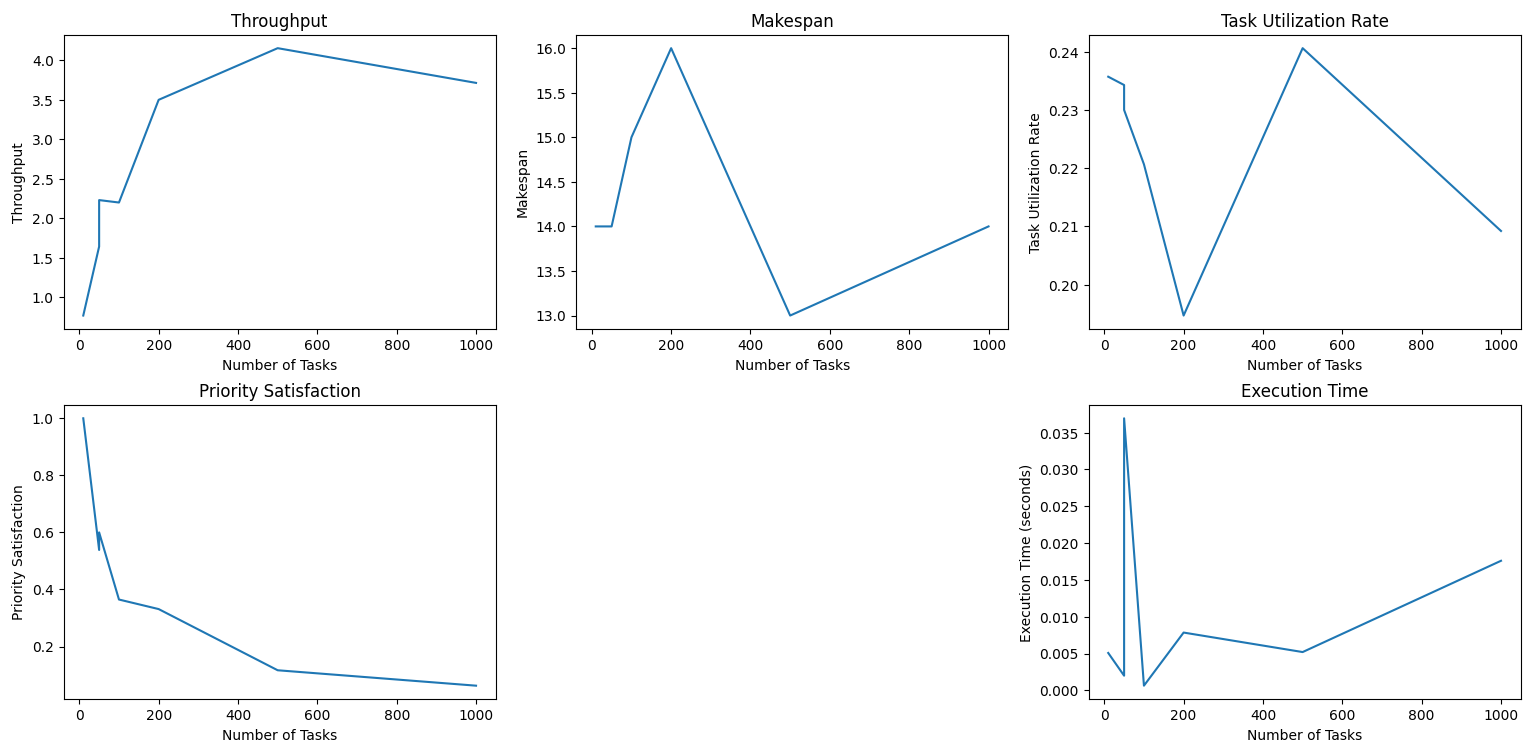
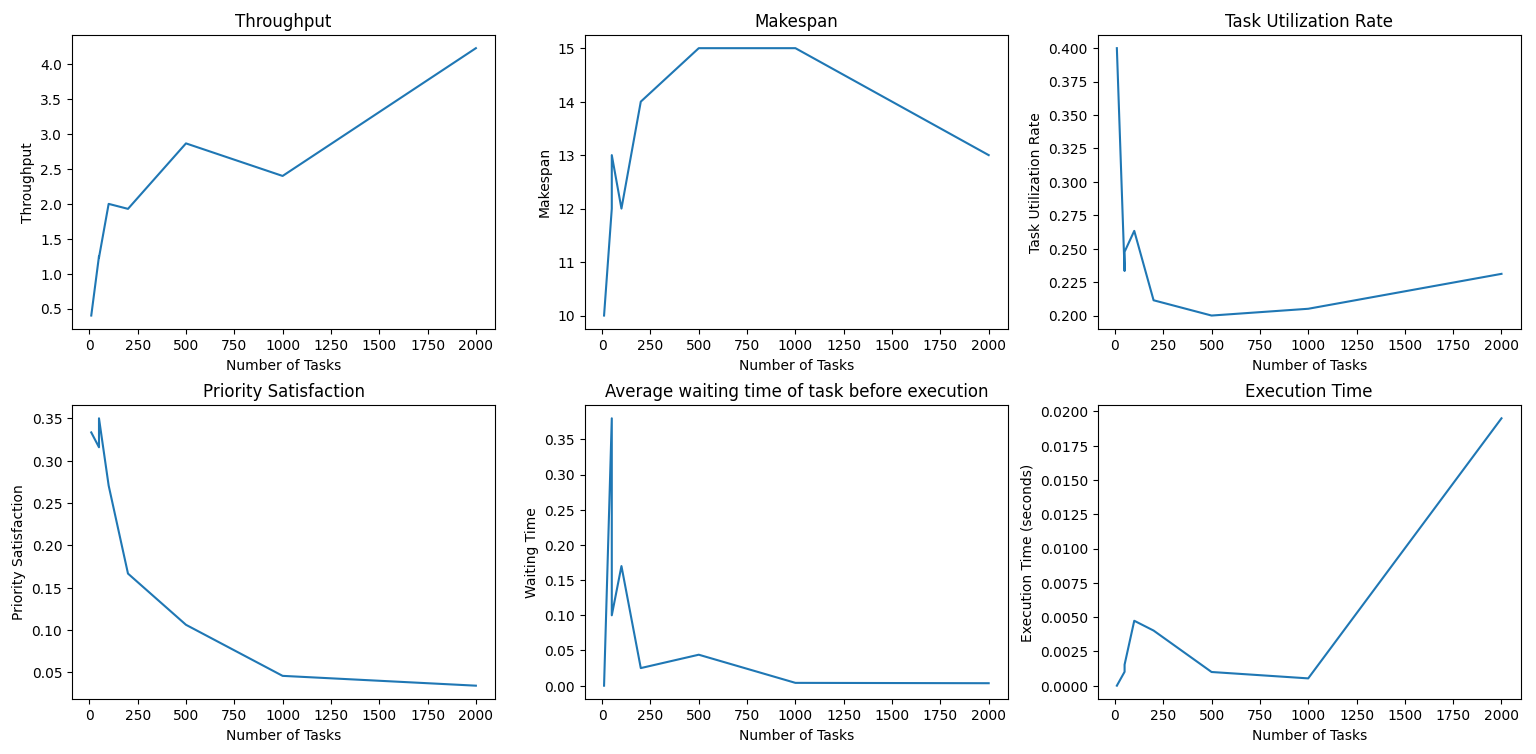
add metrics

diff --git a/Metrics.py b/Metrics.py
@@ -113,6 +113,21 @@ def calculate_resource_utilization(schedule, tasks, resource_limits):
     # print(f"DEBUG1: {utilization}")
     return utilization
 
+def calculate_average_wait_time(tasks, schedule):
+    wait_times = {task.task_id: 0 for task in tasks}  # Initialize wait times for each task
+
+    for task_id, start_time, end_time in schedule:
+        task = next((t for t in tasks if t.task_id == task_id), None)
+        if task:
+            # Calculate wait time for each task
+            wait_time = max(0, start_time - task.min_start_time)
+            wait_times[task_id] += wait_time
+
+    # Calculate average wait time
+    total_wait_time = sum(wait_times.values())
+    average_wait_time = total_wait_time / len(tasks) if tasks else 0
+    return average_wait_time
+
 def measure_metrics(schedule, tasks, resource_limits):
     """
     Measures the various metrics for the given schedule, tasks, and resource limits.
@@ -130,6 +145,7 @@ def measure_metrics(schedule, tasks, resource_limits):
     task_utilization_rate = calculate_task_utilization_rate(schedule, tasks)
     priority_satisfaction = calculate_priority_satisfaction(schedule, tasks)
     resource_utilization = calculate_resource_utilization(schedule, tasks, resource_limits)
+    task_avg_wait_time = calculate_average_wait_time(tasks, schedule)
     # print(f"DEBUG2: {resource_utilization}")
-    return throughput, makespan, task_utilization_rate, priority_satisfaction, resource_utilization
+    return throughput, makespan, task_utilization_rate, priority_satisfaction, resource_utilization, task_avg_wait_time
 

diff --git a/experiments.py b/experiments.py
@@ -50,7 +50,8 @@ settings2 = {# experiments with number of tasks and max dependencies
     "medium2": (100, 3),
     "complex1": (200, 3),
     "complex2": (500, 5),
-    "complex3": (1000, 5)
+    "complex3": (1000, 5),
+    "complex4": (2000, 10)
 }
 
 # Run the experiment for Greedy approach
@@ -67,12 +68,12 @@ for experiment_name, (num_tasks, max_dependencies) in settings2.items():
     visualize_tasks(tasks, schedule)
     
     # Measure metrics
-    throughput, makespan, task_utilization_rate, priority_satisfaction, resource_utilization = measure_metrics(schedule, tasks, RESOURCE_LIMITS)
+    throughput, makespan, task_utilization_rate, priority_satisfaction, resource_utilization, task_avg_wait_time = measure_metrics(schedule, tasks, RESOURCE_LIMITS)
     # print(f"DEBUG3: {resource_utilization}")
     execution_time = end_time - start_time
     
     # Append results with experiment name for identification
-    results.append((num_tasks, throughput, makespan, task_utilization_rate, priority_satisfaction, resource_utilization, execution_time))
+    results.append((num_tasks, throughput, makespan, task_utilization_rate, priority_satisfaction, resource_utilization, execution_time, task_avg_wait_time))
 
 # Visualize the results
 visualize_metrics(results)

diff --git a/Visualisation.py b/Visualisation.py
@@ -1,7 +1,5 @@
 import matplotlib.pyplot as plt
 
-import matplotlib.pyplot as plt
-
 # Task visualization
 def visualize_tasks(tasks, schedule):
     # Create a figure with 4 subplots (one for each task type)
@@ -85,7 +83,8 @@ def visualize_metrics(results):
     resource_utilization = [r[5] for r in results]
     # print(f"DEBUG: {resource_utilization}")
     execution_time = [r[6] for r in results]
-
+    task_avg_wait_time = [r[7] for r in results]
+    
     plt.figure(figsize=(16, 8))
 
     plt.subplot(2, 3, 1)
@@ -112,9 +111,11 @@ def visualize_metrics(results):
     plt.xlabel('Number of Tasks')
     plt.ylabel('Priority Satisfaction')
 
-    # plt.subplot(2, 3, 5)
-
-    # #########
+    plt.subplot(2, 3, 5)
+    plt.plot(x, task_avg_wait_time)
+    plt.title('Average waiting time of task before execution')
+    plt.xlabel('Number of Tasks')
+    plt.ylabel('Waiting Time')
 
     plt.subplot(2, 3, 6)
     plt.plot(x, execution_time)

diff --git a/TaskGeneration.py b/TaskGeneration.py
@@ -36,8 +36,8 @@ def generate_random_tasks(num_tasks, resource_limits, max_dependencies=0):
     tasks = []
 
     for i in range(num_tasks):
-        # task_status = random.choice(TASK_STATUS)
-        task_status = "Not Running"
+        task_status = random.choice(TASK_STATUS)
+        # task_status = "Not Running"
         task_type = random.choice(TASK_TYPES)
         length = random.randint(1, 5)
         priority = random.randint(1, 10)
